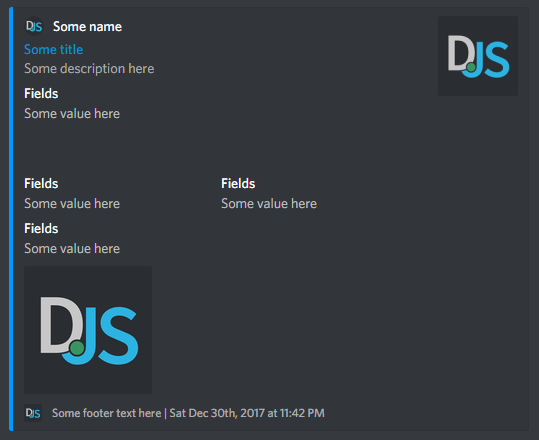
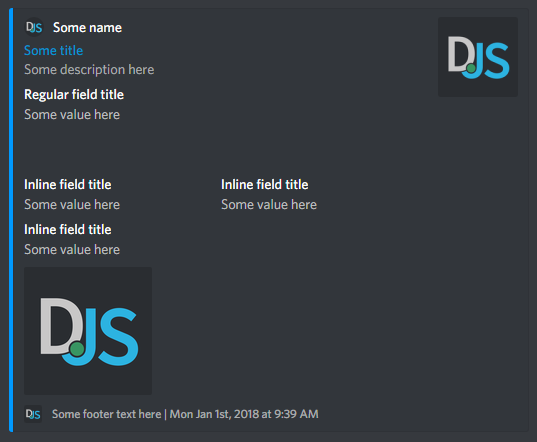
Embed examples consistency, small wording stuff

diff --git a/guide/additional-info/miscellaneous-examples.md b/guide/additional-info/miscellaneous-examples.md
@@ -40,7 +40,7 @@ client.login('your-token-goes-here');
 
 ### Catching UnhandledPromiseRejectionWarnings
 
-If you've ever seen something labled `UnhandledPromiseRejectionWarnings` in your console, it can sometimes be a bit vague as to why it occured. In addition to that, not handling promise rejections is currently deprecated and will eventually be removed. Once that happens, any unhandled promise rejections will close your app with a non-zero exit code.
+If you've ever seen something labled as `UnhandledPromiseRejectionWarnings` in your console, the reason of occurrence can be vague sometimes. In addition to that, not handling promise rejections is currently deprecated and will eventually be removed. Once that happens, any unhandled promise rejections will close your app with a non-zero exit code.
 
 You can use a single line of code to prevent that, though. This will also display the line number of where the error occured.
 
@@ -103,26 +103,25 @@ message.channel.send({
 		},
 		fields: [
 			{
-				name: 'Fields',
+				name: 'Regular field title',
 				value: 'Some value here',
-				inline: true,
 			},
 			{
 				name: '\u200b',
 				value: '\u200b',
 			},
 			{
-				name: 'Fields',
+				name: 'Inline field title',
 				value: 'Some value here',
 				inline: true,
 			},
 			{
-				name: 'Fields',
+				name: 'Inline field title',
 				value: 'Some value here',
 				inline: true,
 			},
 			{
-				name: 'Fields',
+				name: 'Inline field title',
 				value: 'Some value here',
 				inline: true,
 			},

diff --git a/guide/creating-your-bot/common-questions.md b/guide/creating-your-bot/common-questions.md
@@ -42,7 +42,7 @@ if (member.roles.exists('name', '<role name>')) {
 ### How do I limit a command to a single user?
 
 ```js
-if (message.author.id === '<id>') {
+if (<message>.author.id === '<id>') {
 	// ...
 }
 ```
